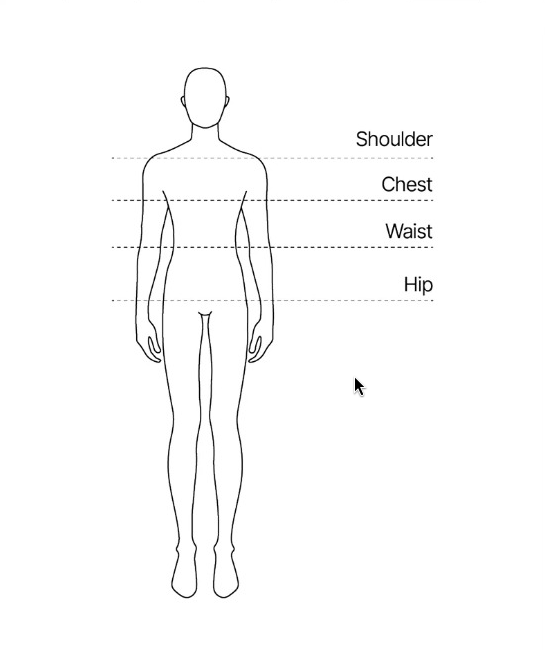
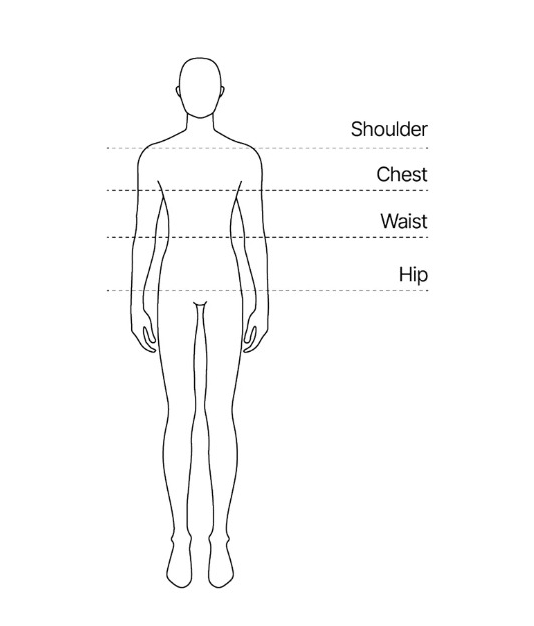
fixed buttons

diff --git a/src/components/Desktop1.jsx b/src/components/Desktop1.jsx
@@ -1,12 +1,12 @@
-import { useState, useEffect, useRef } from 'react';
+import { useState, useEffect } from 'react';
 import { useSearchParams } from 'react-router-dom';
 import styles from './Desktop1.module.css';
 
 const PRODUCT_NAME = 'Exposure Explorers Oversized T-Shirt';
 const PAYMENT_PAGE_URL = 'https://pages.razorpay.com/pl_TbcC9hOorxJOU4/view';
+const MOBILE_PAYMENT_PAGE_URL = 'https://pages.razorpay.com/pl_TbvJfxCSs8dfrU/view';
 const SIZE_FIELD_KEY = 'size';
 const PRODUCT_PRICE = '₹ 759';
-const MOBILE_PAYMENT_BUTTON_ID = 'pl_TbvJfxCSs8dfrU';
 
 const DESCRIPTION_TEXT = `A heavyweight 240 GSM Terry Cotton tee featuring minimal front branding and a bold graphic back. Finished with a soft, breathable feel and a relaxed silhouette made for everyday wear.
 
@@ -47,8 +47,6 @@ const Desktop1 = () => {
   const [showSizeGuide, setShowSizeGuide] = useState(false);
   const [isMobile, setIsMobile] = useState(false);
 
-  const paymentFormRef = useRef(null);
-
   useEffect(() => {
     const mq = window.matchMedia('(max-width: 768px)');
     const update = () => setIsMobile(mq.matches);
@@ -56,24 +54,6 @@ const Desktop1 = () => {
     mq.addEventListener('change', update);
     return () => mq.removeEventListener('change', update);
   }, []);
-
-  // Mobile-only Razorpay Payment Button
-  useEffect(() => {
-    if (!isMobile || !paymentFormRef.current) return;
-
-    const form = paymentFormRef.current;
-    form.innerHTML = '';
-
-    const script = document.createElement('script');
-    script.src = 'https://checkout.razorpay.com/v1/payment-button.js';
-    script.setAttribute('data-payment_button_id', MOBILE_PAYMENT_BUTTON_ID);
-    script.async = true;
-    form.appendChild(script);
-
-    return () => {
-      form.innerHTML = '';
-    };
-  }, [isMobile]);
 
   useEffect(() => {
     const preconnect = document.createElement('link');
@@ -88,6 +68,7 @@ const Desktop1 = () => {
     document.head.appendChild(dns);
 
     prefetchUrl(PAYMENT_PAGE_URL);
+    prefetchUrl(MOBILE_PAYMENT_PAGE_URL);
 
     return () => {
       preconnect.remove();
@@ -97,10 +78,11 @@ const Desktop1 = () => {
 
   useEffect(() => {
     if (!selectedSize) return;
-    const url = new URL(PAYMENT_PAGE_URL);
+    const base = isMobile ? MOBILE_PAYMENT_PAGE_URL : PAYMENT_PAGE_URL;
+    const url = new URL(base);
     url.searchParams.set(SIZE_FIELD_KEY, selectedSize);
     prefetchUrl(url.toString());
-  }, [selectedSize]);
+  }, [selectedSize, isMobile]);
 
   useEffect(() => {
     const paymentFlag = searchParams.get('payment');
@@ -143,12 +125,20 @@ const Desktop1 = () => {
   };
 
   const getCheckoutUrl = () => {
-    const url = new URL(PAYMENT_PAGE_URL);
+    const base = isMobile ? MOBILE_PAYMENT_PAGE_URL : PAYMENT_PAGE_URL;
+    const url = new URL(base);
     if (selectedSize) url.searchParams.set(SIZE_FIELD_KEY, selectedSize);
     return url.toString();
   };
 
-  const savePending = () => {
+  const handleBuyNow = () => {
+    if (!selectedSize) {
+      setMessage('Please select a size first.');
+      return;
+    }
+
+    setMessage('');
+
     try {
       sessionStorage.setItem(
         'ee_merch_pending',
@@ -161,22 +151,8 @@ const Desktop1 = () => {
     } catch {
       // ignore
     }
-  };
 
-  const handleBuyNow = () => {
-    if (!selectedSize) {
-      setMessage('Please select a size first.');
-      return;
-    }
-
-    setMessage('');
-    savePending();
     window.location.assign(getCheckoutUrl());
-  };
-
-  // Before mobile payment button opens, store size if selected
-  const handleMobilePayClick = () => {
-    if (selectedSize) savePending();
   };
 
   const buildReceiptText = (order) => {
@@ -294,13 +270,11 @@ const Desktop1 = () => {
 
           <div className={styles.imageGrid}>
             <div className={styles.imageCol}>
-              {/* 1st */}
               <img
                 className={styles.image1Icon}
                 src="/assets/merch/product-2.webp"
                 alt="Product front"
               />
-              {/* 2nd on desktop / 3rd on mobile (CSS order) */}
               <img
                 className={styles.image4Icon2}
                 src="/assets/merch/product-1.webp"
@@ -308,13 +282,11 @@ const Desktop1 = () => {
               />
             </div>
             <div className={styles.imageCol}>
-              {/* 3rd on desktop / 2nd on mobile (CSS order) */}
               <img
                 className={styles.image3Icon}
                 src="/assets/merch/product-3.webp"
                 alt="Product lifestyle"
               />
-              {/* 4th */}
               <img
                 className={styles.image4Icon}
                 src="/assets/merch/product-4.webp"
@@ -363,8 +335,6 @@ const Desktop1 = () => {
           </div>
           <div className={styles.desktop1Item} />
 
-          {/* Desktop order: Description/Care then Buy Now
-              Mobile order (CSS): Buy Now first, then Description/Care */}
           <div className={styles.lineParent}>
             <div className={styles.accordionRow}>
               <button
@@ -441,30 +411,18 @@ const Desktop1 = () => {
             <div className={styles.frameChild} />
           </div>
 
-          {/* Desktop custom BUY NOW */}
-          {!isMobile && (
-            <div
-              className={styles.buyNowWrapper}
-              onClick={handleBuyNow}
-              onMouseEnter={() => {
-                if (selectedSize) prefetchUrl(getCheckoutUrl());
-              }}
-              role="button"
-            >
-              <div className={styles.desktop1Inner} />
-              <div className={styles.buyNow}>BUY NOW</div>
-            </div>
-          )}
-
-          {/* Mobile Razorpay Payment Button */}
-          {isMobile && (
-            <div
-              className={styles.mobilePayWrap}
-              onClick={handleMobilePayClick}
-            >
-              <form ref={paymentFormRef} className={styles.razorpayForm} />
-            </div>
-          )}
+          {/* Same button on desktop + mobile */}
+          <div
+            className={styles.buyNowWrapper}
+            onClick={handleBuyNow}
+            onMouseEnter={() => {
+              if (selectedSize) prefetchUrl(getCheckoutUrl());
+            }}
+            role="button"
+          >
+            <div className={styles.desktop1Inner} />
+            <div className={styles.buyNow}>BUY NOW</div>
+          </div>
 
           {message && (
             <p style={{ marginTop: 12, fontSize: 14, color: '#c00' }}>
